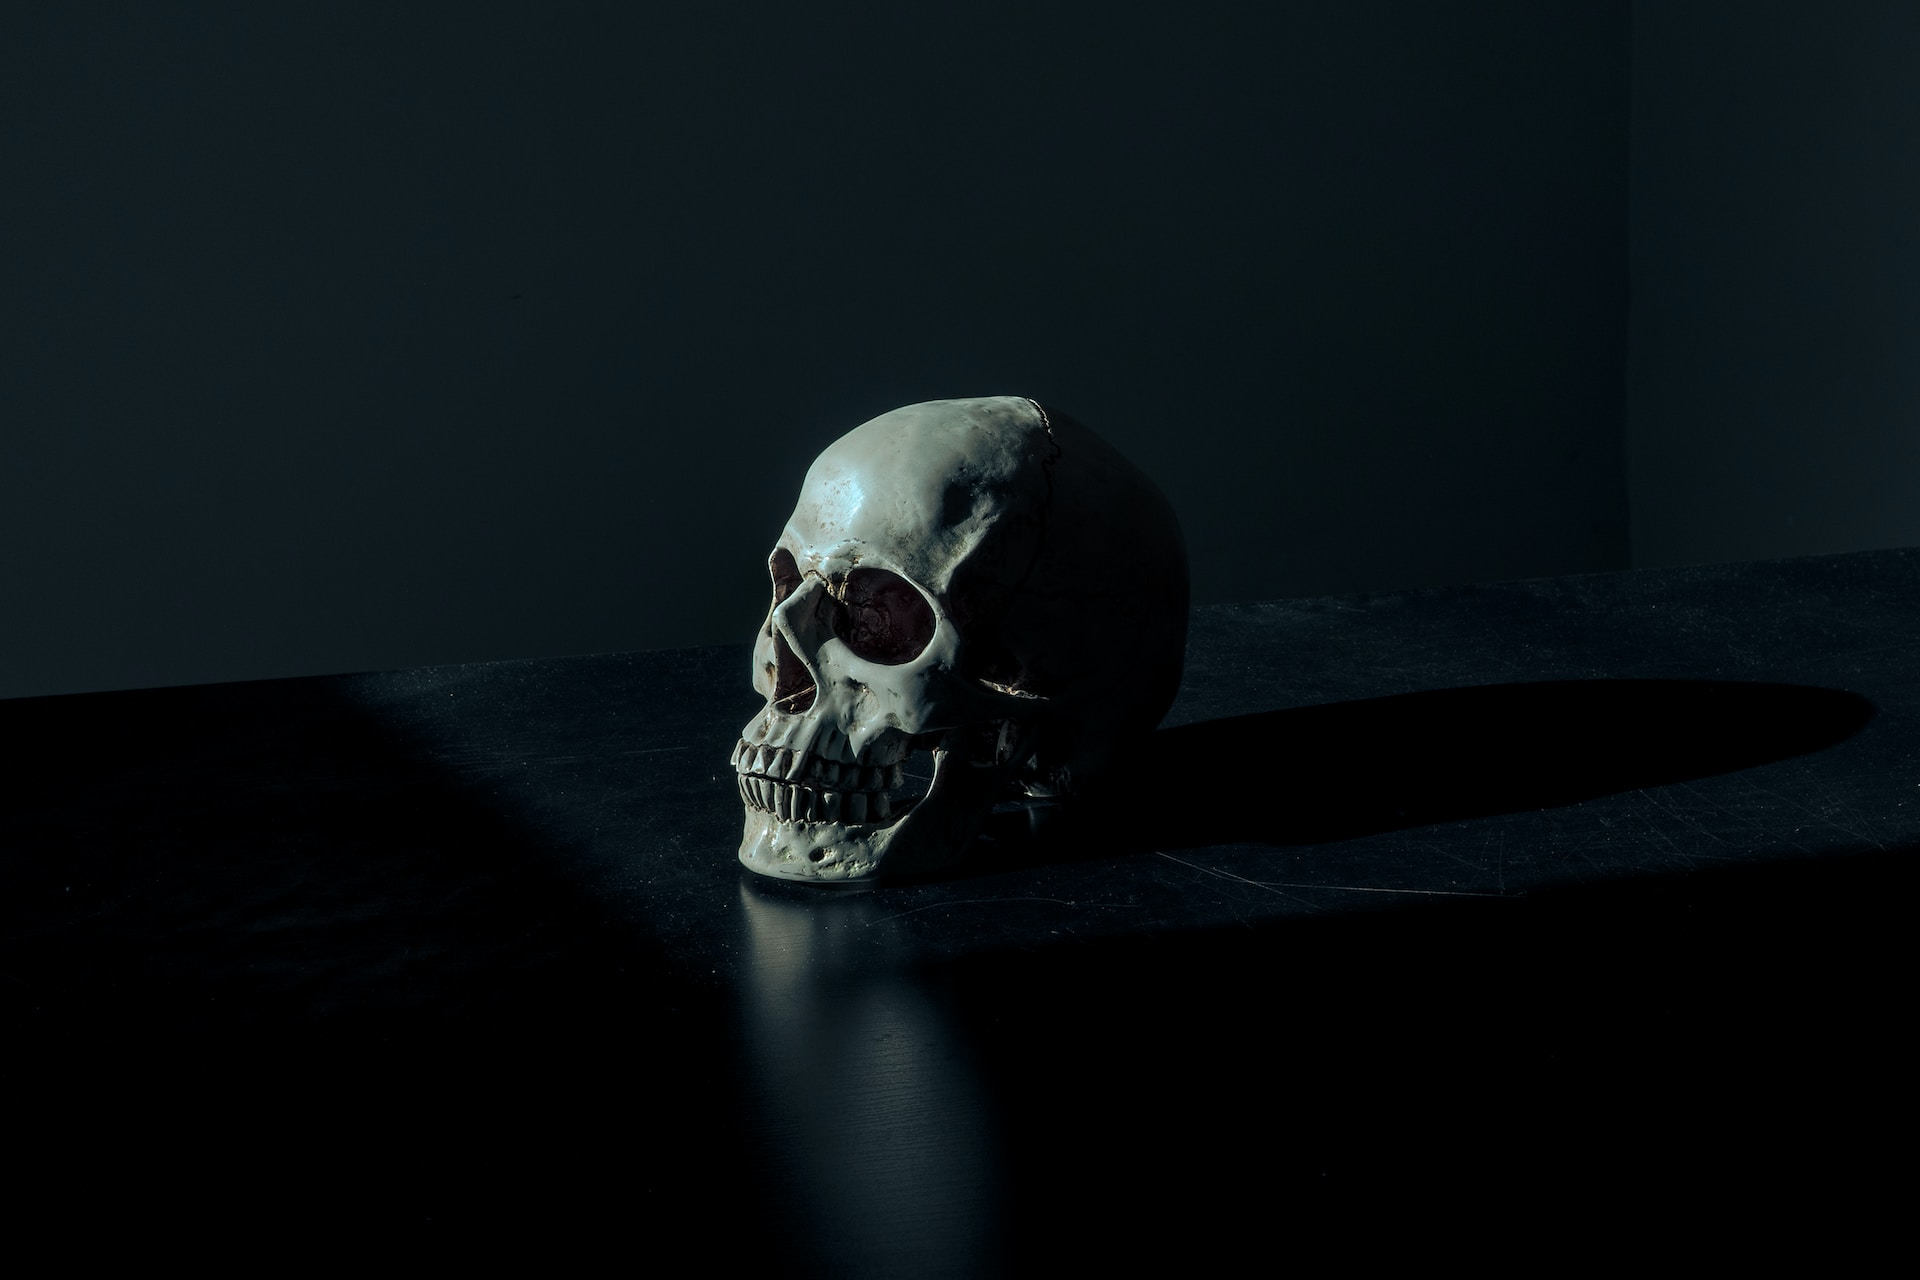
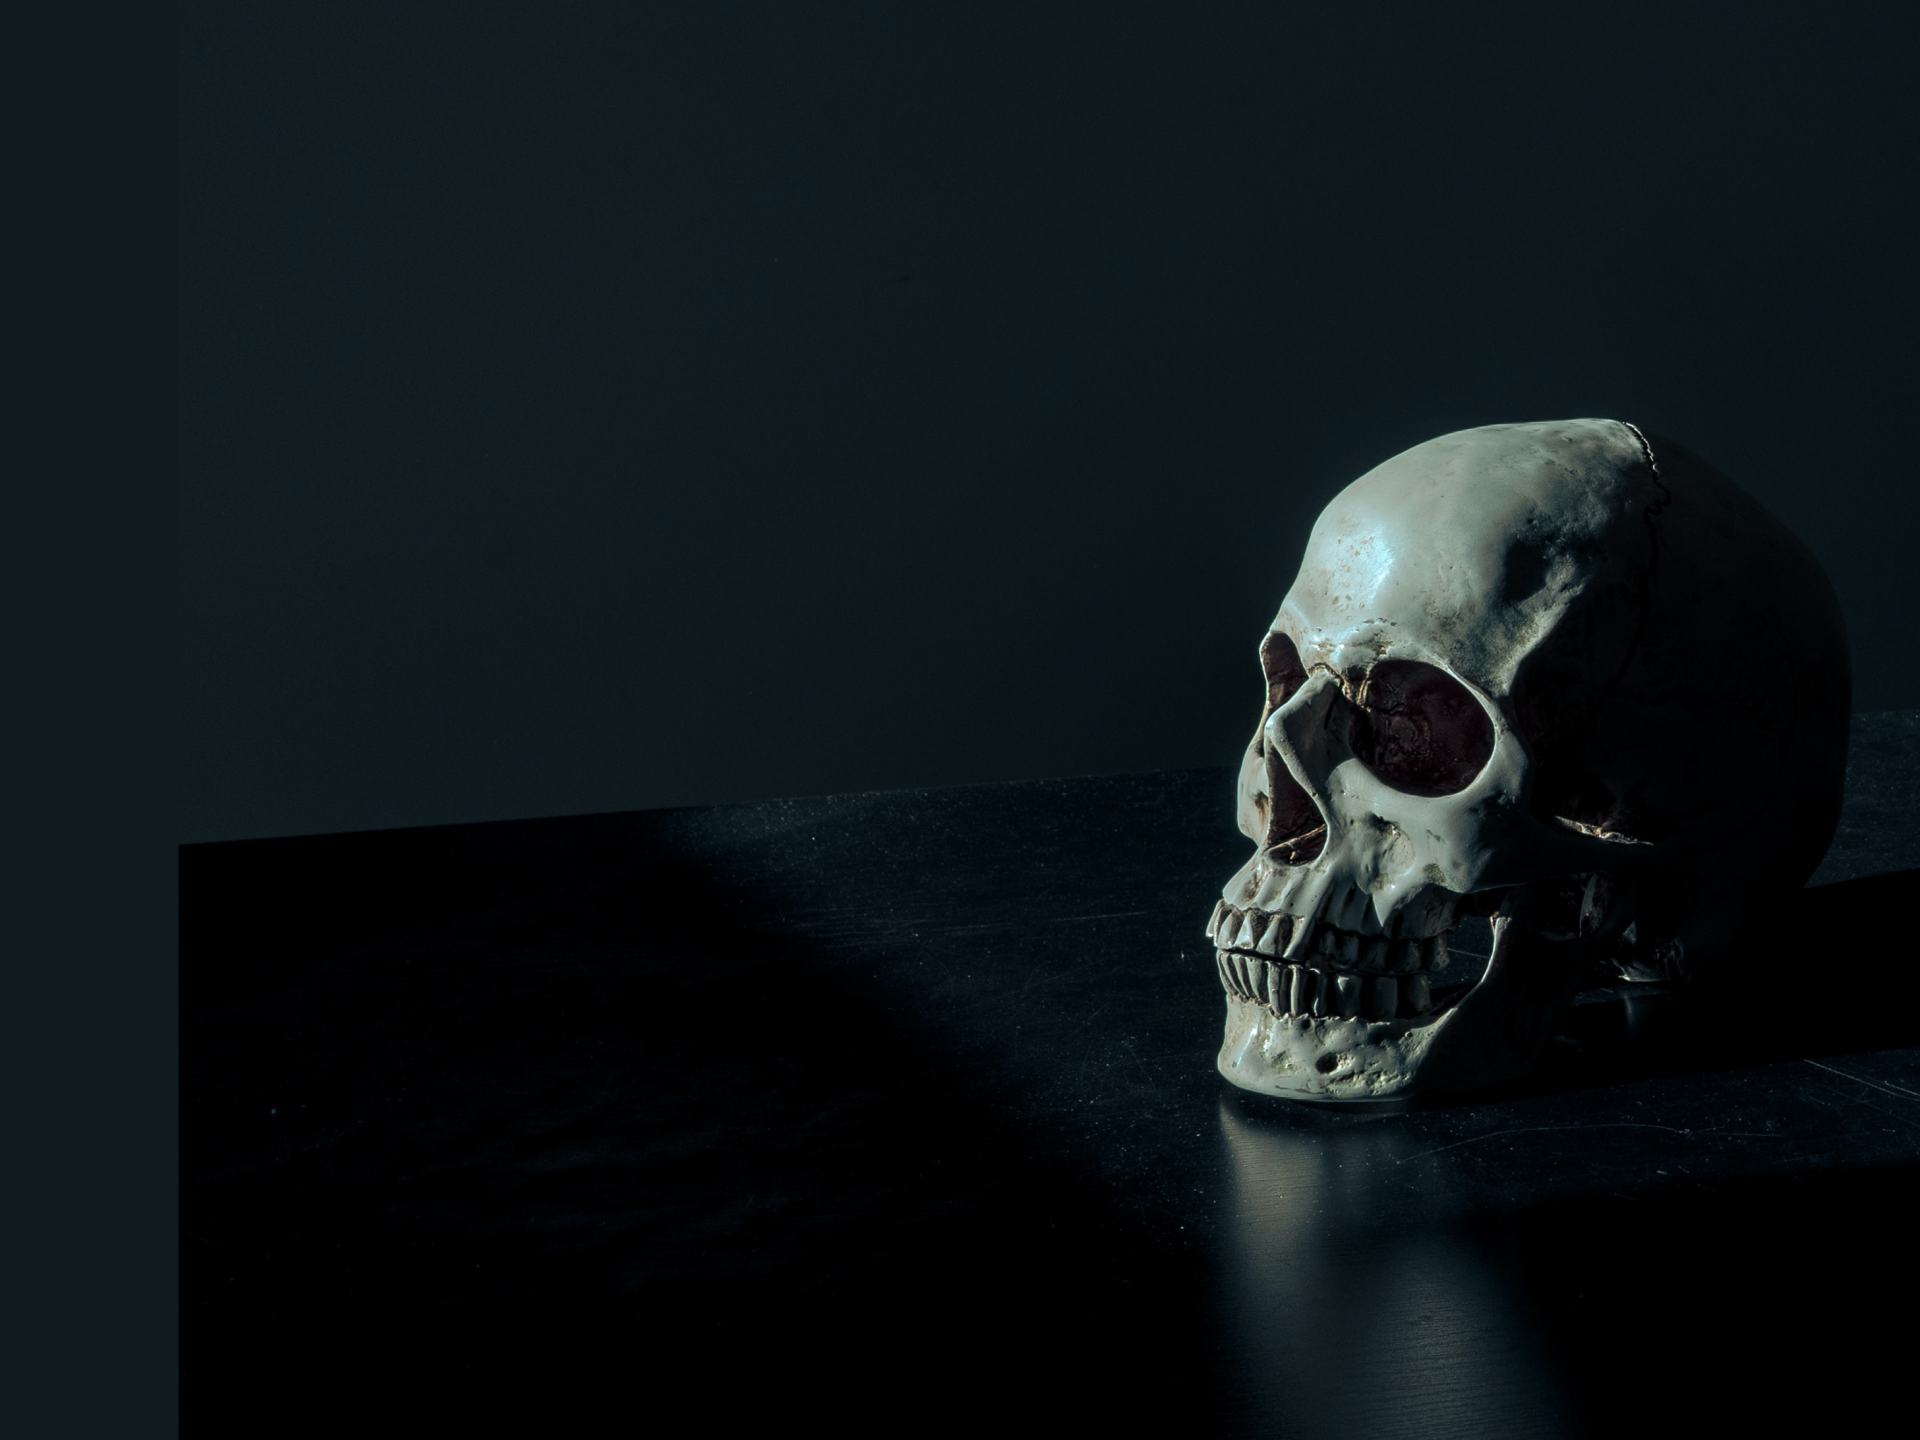
during

diff --git a/css/kasper.css b/css/kasper.css
@@ -1,12 +1,14 @@
 /* Start Variables */
 :root {
-  /* --clr-primary-400: hsl(47, 79%, 55%); /* #e7c032 */
-  /*--clr-primary-400: hsl(196, 78%, 67%);  #6ACAED */
-  --clr-primary-400: hsl(1, 93%, 48%); /* #6ACAED */
+  /* --clr-primary-400: hsl(47, 79%, 55%); #e7c032 */
+  --clr-primary-400: hsla(58, 100%, 50%); /* #FFF500 */
+  --clr-secondary-800: #0e191d;
 
   --clr-neutral-100: hsl(0, 0%, 100%); /* #fff */
-  --clr-neutral-200: hsl(0, 0%, 87%); /* #ddd */
+  --clr-neutral-200: hsl(0, 0%, 87%); /* #dedede */
+  --clr-neutral-300: hsl(0, 0%, 93%); /* #ededed */
   --clr-neutral-800: hsl(0, 0%, 19%); /* #303030 */
+  --clr-neutral-800: #777; /* 030303 */
   --clr-neutral-900: hsl(0, 0%, 1%); /* 030303 */
 
   --ff-default: "Raleway", sans-serif;
@@ -17,7 +19,7 @@
 
   --dt-main: 0.5s;
 
-  --pd-main: 60px;
+  --pd-main: 100px;
 }
 /* End Variables */
 /* Start Global Rules */
@@ -55,14 +57,62 @@ ul {
     width: 970px;
   }
 }
+/* In between */
+/* @media (min-width: 1300px) {
+  .container {
+    width: 1270px;
+  }
+} */
 /* Large */
 @media (min-width: 1200px) {
   .container {
     width: 1170px;
   }
 }
+
 /* End Global Rules */
 /* Start Components */
+.main-heading {
+  text-align: center;
+  padding: 100px;
+}
+.main-heading h2 {
+  font-weight: var(--fw-regular);
+  font-size: 40px;
+  position: relative;
+  margin-bottom: 70px;
+  text-transform: uppercase;
+}
+.main-heading h2::after {
+  content: "";
+  position: absolute;
+  bottom: -44px;
+  left: 50%;
+  transform: translateX(-50%);
+  width: 20px;
+  height: 20px;
+  background-color: #253940;
+  border-radius: 50%;
+  border: 1px solid hsl(0, 0%, 100%);
+}
+.main-heading h2::before {
+  content: "";
+  position: absolute;
+  bottom: -35px;
+  left: 50%;
+  transform: translateX(-50%);
+  width: 140px;
+  height: 2px;
+  border-radius: 1px;
+  background-color: var(--clr-neutral-300);
+}
+.main-heading p {
+  width: 550px;
+  margin: 0 auto;
+  max-width: 100%;
+  line-height: 2;
+  color: var(--clr-neutral-300);
+}
 /* End Components */
 /* Start Header */
 header {
@@ -71,12 +121,15 @@ header {
   width: 100%;
   z-index: 2;
 }
+
 header .container {
   display: flex;
   justify-content: space-between;
   align-items: center;
   position: relative;
   min-height: 96px;
+  width: 100%;
+  padding: 0 30px;
 }
 /* header .container::after {
   content: "";
@@ -107,6 +160,7 @@ header nav .toggle {
 }
 header nav ul {
   display: flex;
+  align-items: center;
 }
 @media (max-width: 767px) {
   header nav ul {
@@ -119,7 +173,8 @@ header nav ul {
     top: 100%;
     left: 0;
     width: 100%;
-    background-color: var(--clr-neutral-900, #030303);
+    background: rgba(0, 0, 0, 0.3);
+    backdrop-filter: blur(25px);
   }
   header nav .toggle:hover + ul li a {
     padding: 15px;
@@ -139,7 +194,7 @@ header nav ul li a {
 header nav ul li a:active,
 header nav ul li a:hover {
   color: var(--clr-primary-400, #e7c032);
-  border-bottom: 1px solid var(--clr-primary-400, #e7c032);
+  /* border-bottom: 1px solid var(--clr-primary-400, #e7c032); */
 }
 header nav .form {
   width: 40px;
@@ -165,9 +220,9 @@ header nav .form:hover i {
 .landing {
   min-height: 100vh;
   background: linear-gradient(136deg, #0e191d 0%, #253940 100%);
-  background-image: url(../images/img-7.jpg);
+  background-image: url(../images/img-2.jpg);
   background-size: cover;
-  background-position: center;
+  background-position: center center;
   position: relative;
 }
 .landing .overlay {
@@ -176,9 +231,153 @@ header nav .form:hover i {
   left: 0;
   width: 100%;
   height: 100%;
-  background-color: rgb(0, 0, 0, 0.65);
+  background-color: rgb(0, 0, 0, 0.75);
 }
-.landing .text {
+.landing .container {
+  display: flex;
+  justify-content: flex-start;
+  position: relative;
+  width: 100%;
+}
 
+.landing .text {
+  width: 840px;
+  max-width: calc(100% - 30px);
+  background-color: rgba(var(--clr-primary-400), 0.5);
+  margin-top: 210px;
+  margin-left: 70px;
+}
+.landing .text h2 {
+  font-size: 48px;
+  font-weight: 800;
+  line-height: 160%;
+}
+.landing .text h2::first-line {
+  font-size: 60px;
+}
+.landing .text h2 span {
+  color: var(--clr-primary-400, #fff500);
+  font-size: 55px;
+  font-style: normal;
+  font-weight: 800;
+  line-height: normal;
+}
+.landing .text p {
+  color: var(--clr-neutral-300);
+  font-size: 20px;
+  font-weight: 400;
+  line-height: 150%;
+  margin-top: 40px;
+}
+@media (max-width: 1500px) {
+  .landing .text {
+    width: 700px;
+  }
+}
+@media (max-width: 1299px) {
+  .landing .text {
+    width: 575px;
+  }
+  .landing .text h2::first-line {
+    font-size: 55px;
+  }
+  .landing .text h2,
+  .landing .text h2 span {
+    font-size: 38px;
+    line-height: 180%;
+  }
+  .landing .text p {
+    font-size: 16px;
+    margin-top: 30px;
+  }
+}
+@media (max-width: 992px) {
+  .landing .container {
+    justify-content: center;
+  }
+  .landing .text {
+    text-align: center;
+    margin-left: 0;
+  }
+  .bullets .container {
+    width: 100%;
+  }
+}
+@media (max-width: 768px) {
+  .landing .text h2::first-line {
+    font-size: 48px;
+  }
+  .landing .text h2,
+  .landing .text h2 span {
+    font-size: 32px;
+    line-height: 150%;
+  }
+}
+.landing .bullets .container {
+  display: flex;
+  justify-content: space-between;
+  align-items: center;
+  position: absolute;
+  bottom: 20px;
+  left: 50%;
+  transform: translateX(-50%);
+}
+.landing .bullets .bullets-position {
+  display: flex;
+  flex-direction: row;
+  gap: 8px;
+}
+.landing .bullets li {
+  border: 1px solid var(--clr-primary-400, #fff500);
+  width: 20px;
+  height: 20px;
+  border-radius: 50%;
+}
+.landing .bullets .left,
+.landing .bullets .right {
+  width: 45px;
+  height: 45px;
+  border-radius: 50%;
+  background: rgba(48, 48, 48, 0.15);
+  box-shadow: 0px 0px 24px 0px rgba(255, 245, 0, 0.1),
+    0px 0px 23px 0px rgba(255, 245, 0, 0.1) inset;
+  backdrop-filter: blur(25px);
+  display: flex;
+  justify-content: center;
+  align-items: center;
+  color: var(--clr-primary-400, #fff500);
+  border: 2px solid var(--clr-primary-400, #fff500);
+  opacity: 0.3;
+}
+.landing .bullets .active {
+  background-color: var(--clr-primary-400, #fff500);
 }
 /* End Landing */
+/* Start Services */
+.services {
+  background-color: var(--clr-secondary-800);
+  padding-bottom: var(--pd-main);
+}
+.services-content {
+  display: grid;
+  grid-template-columns: repeat(auto-fill, minmax(420px, 1fr));
+  gap: 10px 100px;
+}
+.services-content .serv {
+  display: flex;
+  gap: 20px;
+}
+.services-content .serv i {
+  width: 100px;
+}
+.services-content .serv .text {
+  display: flex;
+  flex-direction: column;
+  row-gap: 20px;
+}
+.services-content .serv h3 {
+  color: var(--clr-primary-400);
+}
+.services-content .serv p {
+}
+/* End Services */

diff --git a/index.html b/index.html
@@ -47,18 +47,88 @@
     <!-- Start Landing -->
     <div class="landing">
       <div class="overlay"></div>
-      <div class="text">
-        <div class="content">
-          <!-- <h2>Hello World!<br />We Are Kasper We Make Art.</h2>
+      <div class="container">
+        <div class="text">
+          <h2>Hello World!<br />We Are <span>Kasper</span> We Make Art.</h2>
           <p>
             Curabitur arcu erat, accumsan id imperdiet et, porttitor at sem.
             Mauris blandit aliquet elit, eget tincidunt nibh pulvinar a.
             Curabitur aliquet quam. Accumsan id imperdiet et, porttitor at sem.
             Mauris blandit aliquet elit, eget tincidunt.
-          </p> -->
+          </p>
+        </div>
+      </div>
+      <ul class="bullets">
+        <div class="container">
+          <li class="left"><i class="fa-solid fa-less-than"></i></li>
+          <div class="bullets-position">
+            <li></li>
+            <li class="active"></li>
+            <li></li>
+          </div>
+          <li class="right"><i class="fa-solid fa-greater-than"></i></li>
+        </div>
+      </ul>
+    </div>
+    <!-- End Landing -->
+    <!-- Start Services -->
+    <div class="services">
+      <div class="container">
+        <div class="main-heading">
+          <h2>Services</h2>
+          <p>
+            Curabitur arcu erat, accumsan id imperdiet et, porttitor at sem.
+            Mauris blandit aliquet elit, eget tincidunt.
+          </p>
+        </div>
+        <div class="services-content">
+          <div class="serv">
+            <i class="fa-solid fa-desktop"></i>
+            <div class="text">
+              <h3>Vorem amet intuitive</h3>
+              <p>
+                Curabitur arcu erat, accumsan id imperdiet et, porttitor at sem.
+                Mauris blandit aliquet elit, eget tincidunt nibh pulvinar a.
+                Curabitur aliquet quam.
+              </p>
+            </div>
+          </div>
+          <div class="serv">
+            <i class="fa-regular fa-cloud"></i>
+            <div class="text">
+              <h3>Vorem amet intuitive</h3>
+              <p>
+                Curabitur arcu erat, accumsan id imperdiet et, porttitor at sem.
+                Mauris blandit aliquet elit, eget tincidunt nibh pulvinar a.
+                Curabitur aliquet quam.
+              </p>
+            </div>
+          </div>
+          <div class="serv">
+            <i class="fa-light fa-code-compare"></i>
+            <div class="text">
+              <h3>Vorem amet intuitive</h3>
+              <p>
+                Curabitur arcu erat, accumsan id imperdiet et, porttitor at sem.
+                Mauris blandit aliquet elit, eget tincidunt nibh pulvinar a.
+                Curabitur aliquet quam.
+              </p>
+            </div>
+          </div>
+          <div class="serv">
+            <i class="fa-brands fa-free-code-camp"></i>
+            <div class="text">
+              <h3>Vorem amet intuitive</h3>
+              <p>
+                Curabitur arcu erat, accumsan id imperdiet et, porttitor at sem.
+                Mauris blandit aliquet elit, eget tincidunt nibh pulvinar a.
+                Curabitur aliquet quam.
+              </p>
+            </div>
+          </div>
         </div>
       </div>
     </div>
-    <!-- End Landing -->
+    <!-- End Services -->
   </body>
 </html>
